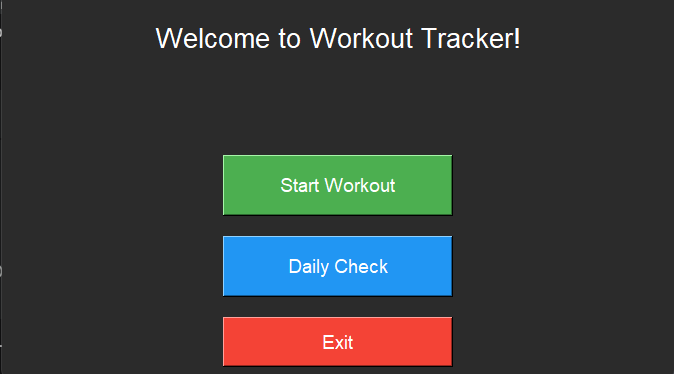
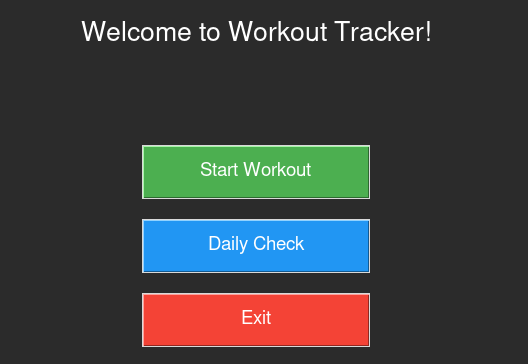
fix: the indent error in workout_controller and the image size of the title

Changed region(s): [[0.2424, 0.3929, 0.7273, 0.9973], [0.1515, 0.0604, 0.8182, 0.1511]]

diff --git a/controller/workout_controller.py b/controller/workout_controller.py
@@ -30,7 +30,5 @@ class WorkoutController:
 
 		date = datetime.date.today().isoformat()
 		self.view.set_status(
-			f"Total: {self.model.get_reps_by_date(date)} reps\n You did {
-				reps
-			} reps.\n {comment}"
+			f"Total: {self.model.get_reps_by_date(date)} reps\n You did {reps} reps.\n {comment}"
 		)
